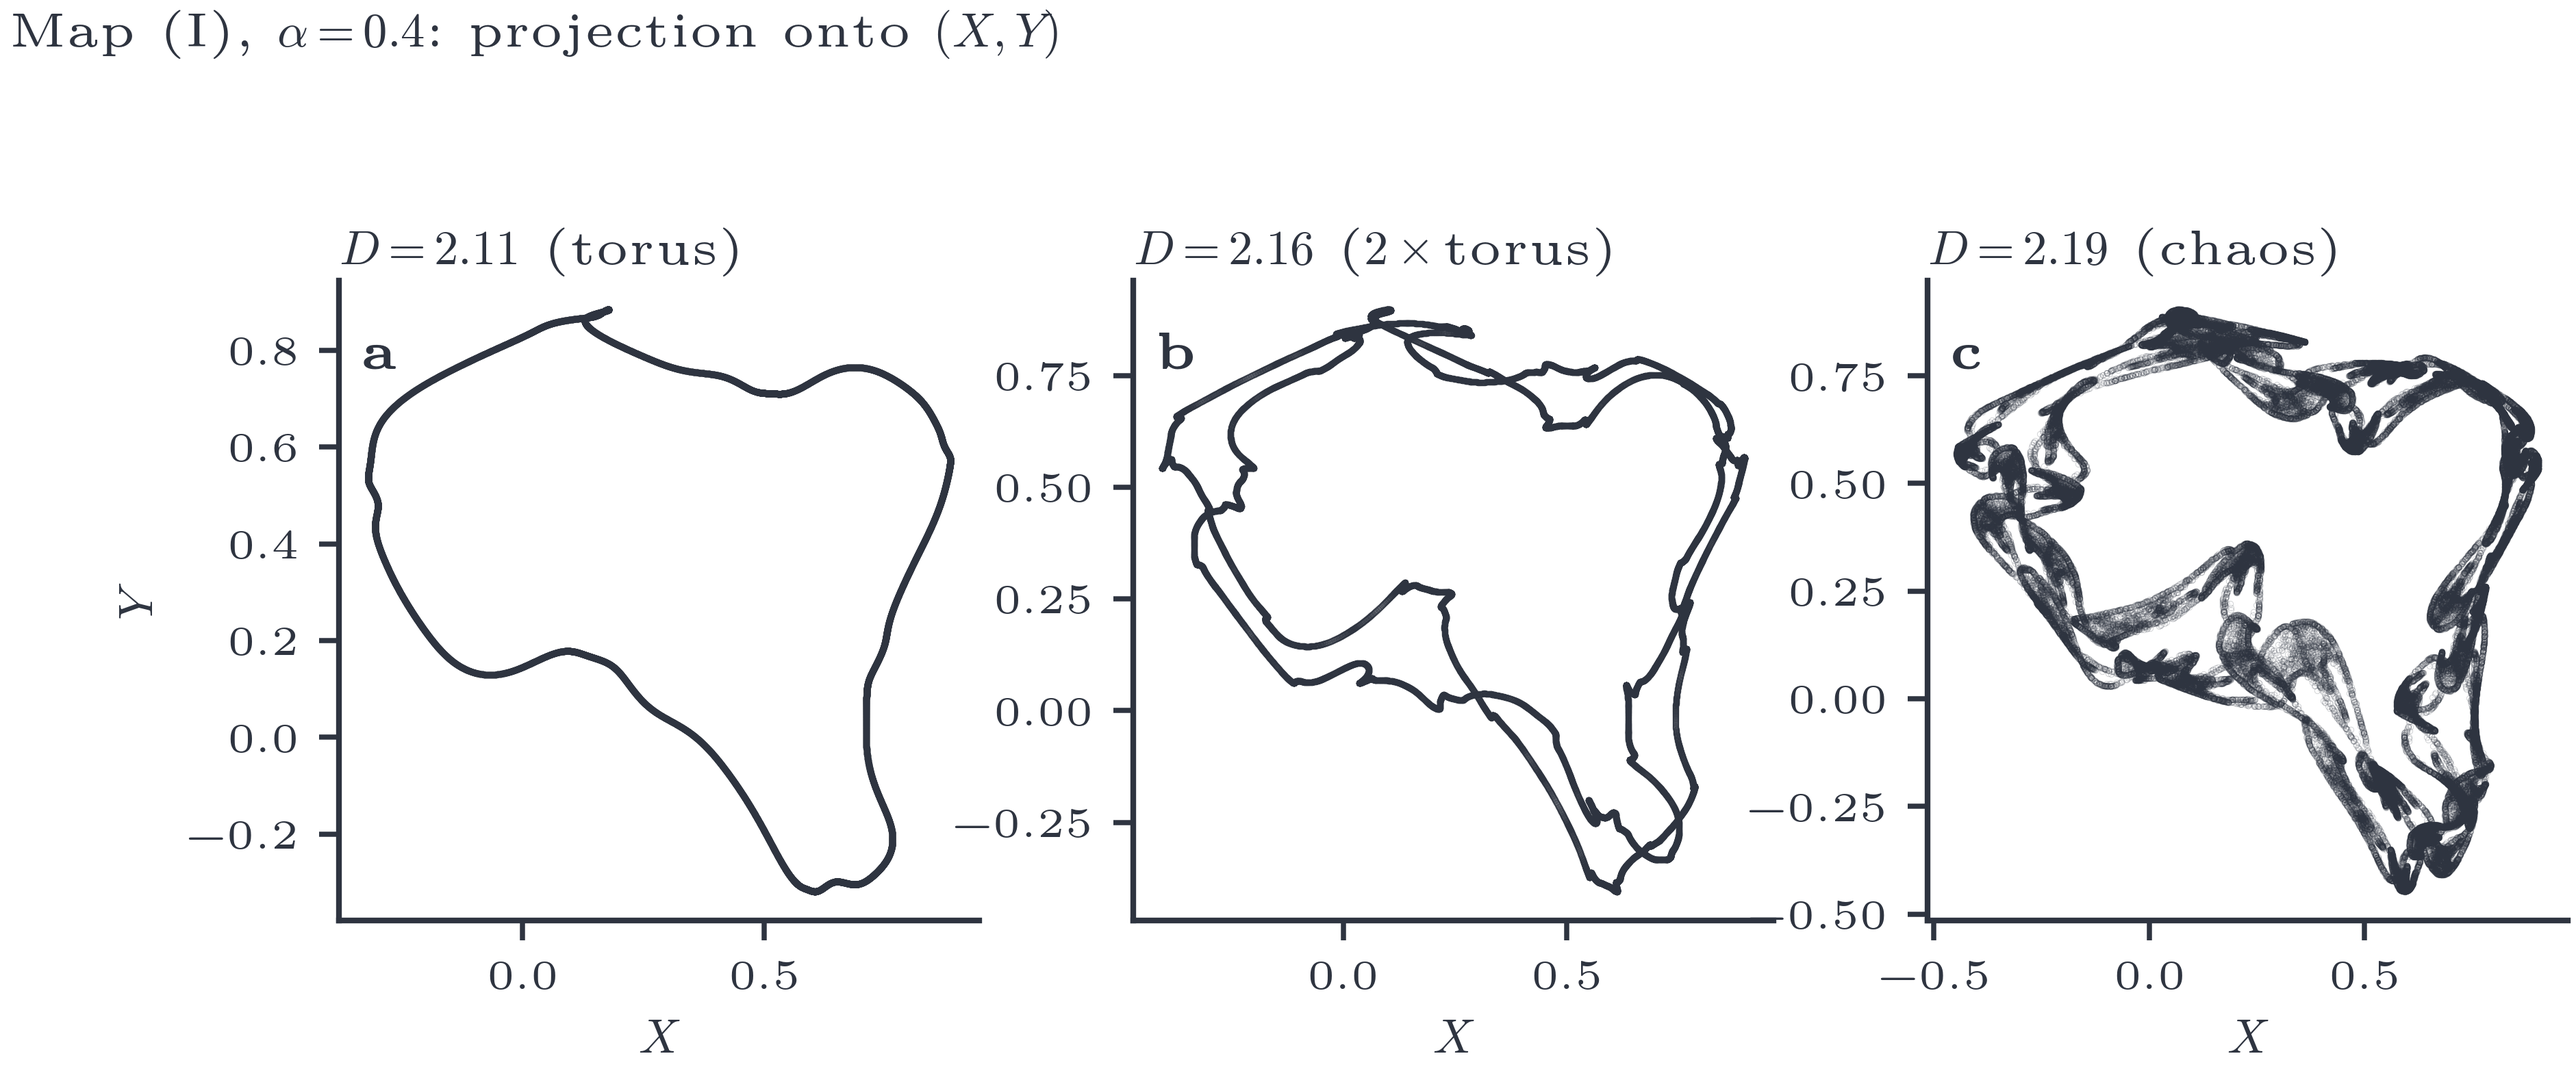
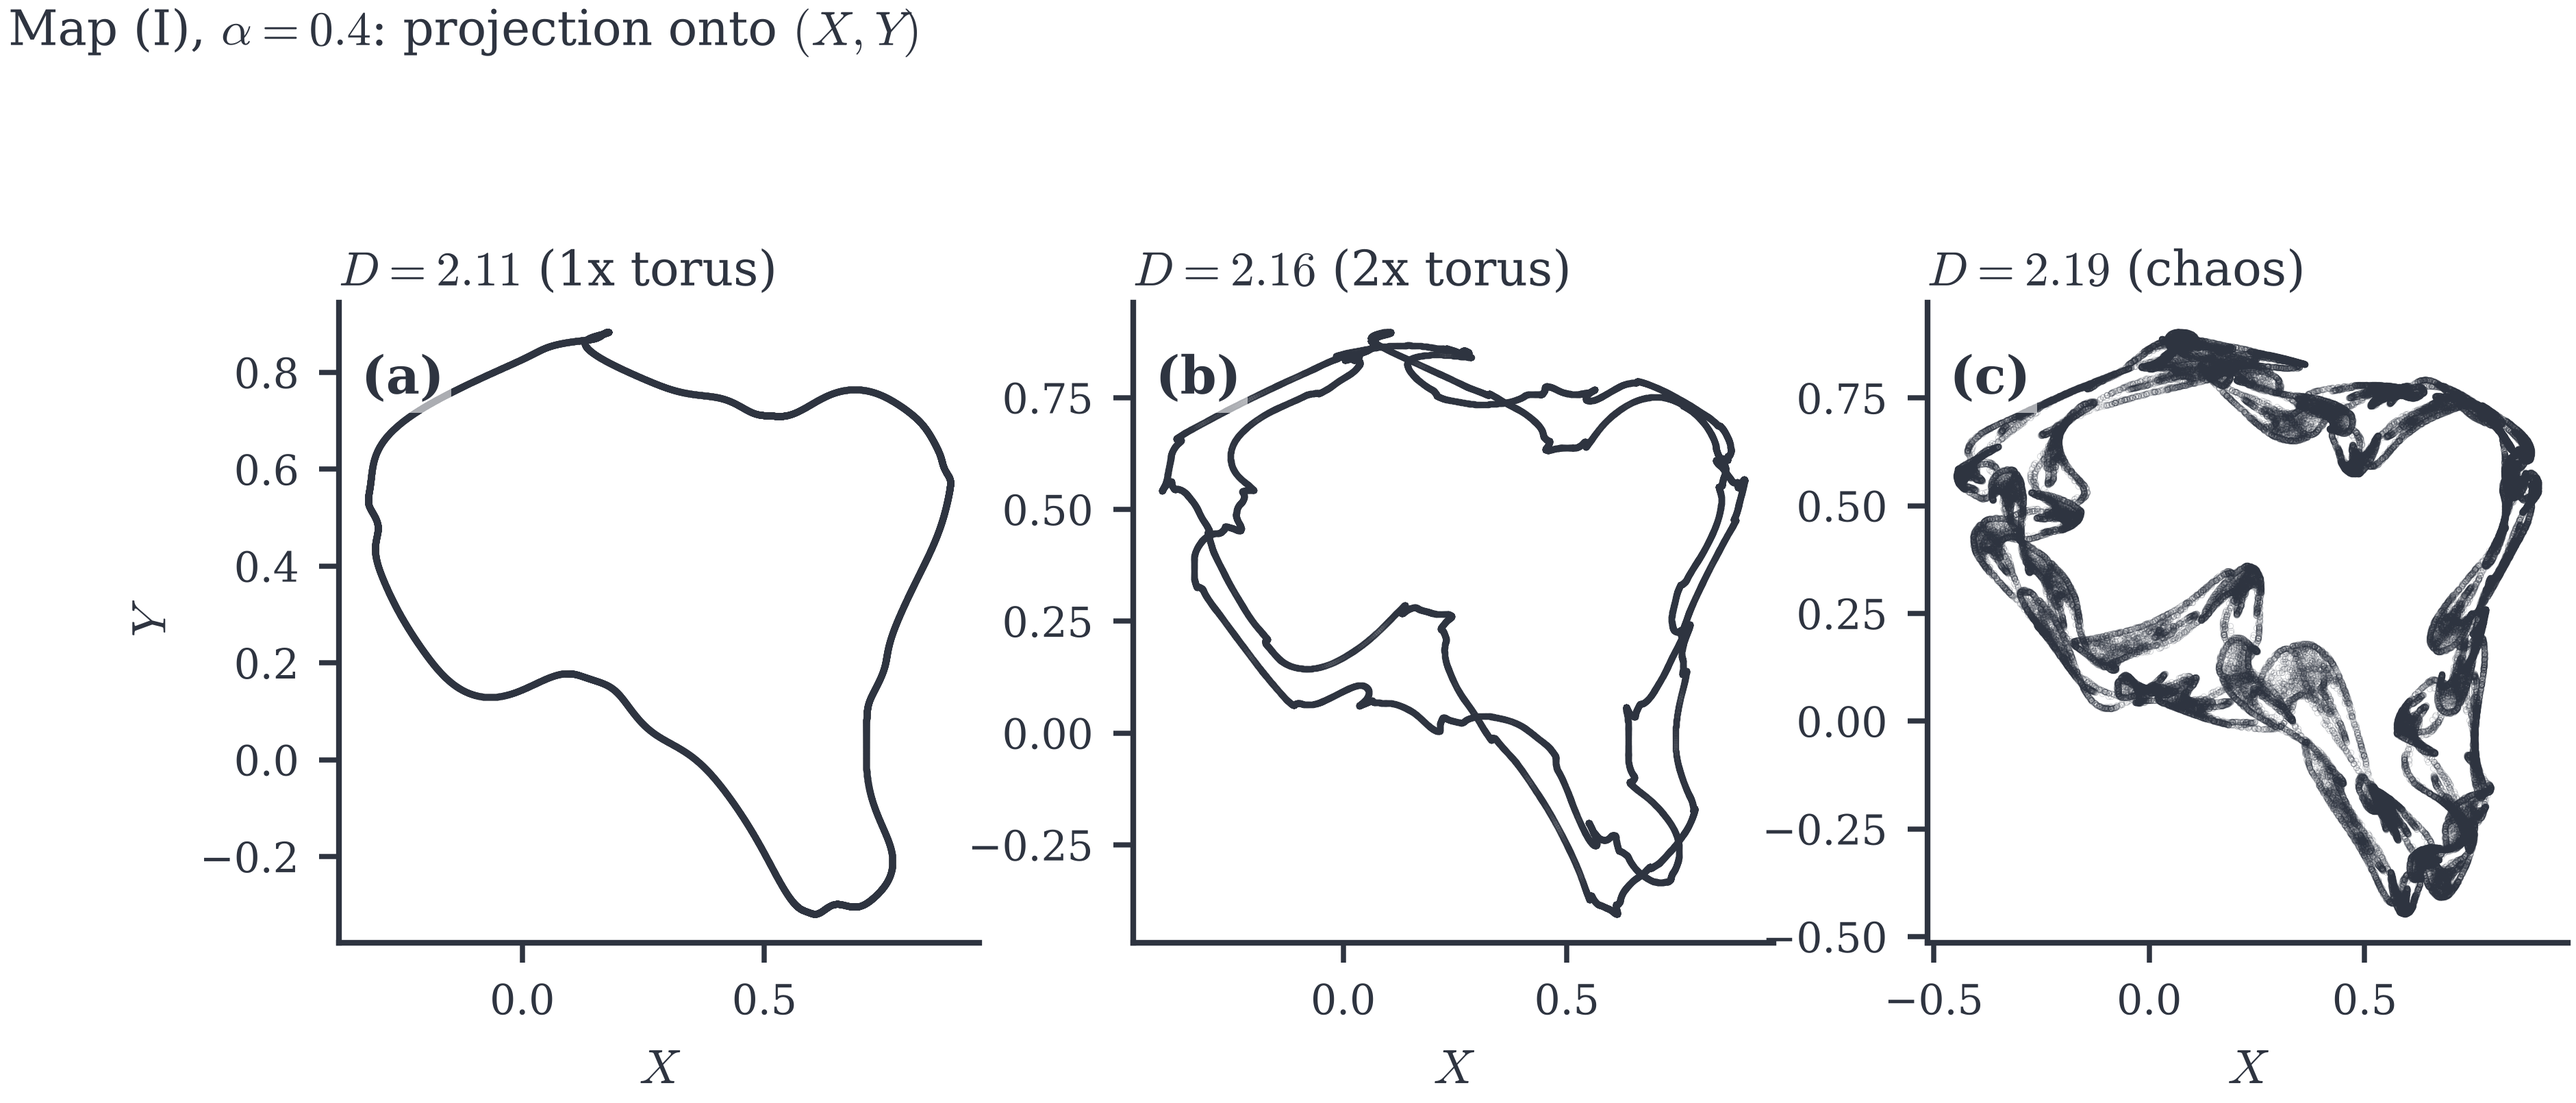
sec04: port the Map (I) doubling figure and its Lyapunov scan into the package
compute_map_I now stores A and, when given scan_D, the Lyapunov spectrum over the
doubling window D in [2.150, 2.175] (26 values, 20,000 iterates each) that the
review quotes. plot_map_I labels the panels '1x torus', '2x torus', 'chaos' and
tags them (a)-(c). map_I_attractors.npz reproduces the earlier private result
exactly. New tests check the cached trajectories, the scan grid, lambda_1 < 0.002
over the scan, and an independent lambda_1 at D = 2.11 (zero) and D = 2.19
(positive). The scan reaches lambda_1 = -0.0061 at one point, so the earlier
wording |lambda_1| < 0.002 is not what the data show; the docstring now says
lambda_1 < 0.002.

diff --git a/src/dynachaos/maps/torus_doubling.py b/src/dynachaos/maps/torus_doubling.py
@@ -10,7 +10,11 @@ Maps investigated:
        Z_{n+1} = AZ_n + (1-A)(1-DW_n^2), W_{n+1} = X_n;  A=0.3
 
 Figures:
-  - Projections onto (X,Y) plane for Map (I): D=2.11 (torus), 2.16 (2x torus), 2.19 (chaos)
+  - Projections onto (X,Y) plane for Map (I): D=2.11 (torus), 2.16 (2x torus), 2.19 (chaos).
+    Kaneko (1983, Table I) gives one doubling for Map (I) at A=0.4, D_1 = 2.151, and the
+    onset of chaos at D_c = 2.163.  The Lyapunov scan over D in [2.150, 2.175] stored with
+    the figure (20,000 iterates per point) keeps lambda_1 < 0.002 and does not resolve these
+    two values; they are Kaneko's.
   - Projections for Map (IV): D=1.515 (4x torus), 1.5206 (8x torus), 1.5212 (chaos)
   - Lyapunov exponents for Map (IV) vs D
 
@@ -36,6 +40,9 @@ MAP1_ANIM_NPZ = FIG_DIR / "map_I_animation.npz"
 MAP1_ANIM_GIF = FIG_DIR / "map_I_animation.gif"
 MAP4_ANIM_NPZ = FIG_DIR / "map_IV_animation.npz"
 MAP4_ANIM_GIF = FIG_DIR / "map_IV_animation.gif"
+
+# Lyapunov scan of Map (I) across the doubling window at A = 0.4.
+MAP1_SCAN_D = np.linspace(2.150, 2.175, 26)
 
 
 # ---------------------------------------------------------------------------
@@ -100,15 +107,39 @@ def iterate_map(f, x0, A, D, n_transient=20_000, n_plot=100_000):
     )
 
 
+def map_I_lyapunov_scan(A, scan_D, n_transient=10_000, n_iter=20_000):
+    """Lyapunov spectrum of Map (I) at each D in ``scan_D``, shape ``(len(scan_D), 3)``."""
+    from dynachaos.diagnostics.lyapunov import lyapunov_spectrum
+
+    x0 = np.array([0.5, 0.5, 0.5])
+    spectra = np.empty((len(scan_D), 3), dtype=np.float64)
+    for idx, D in enumerate(scan_D):
+        spectra[idx] = lyapunov_spectrum(
+            lambda state, _D=D: map_I(state, A, _D),
+            lambda state, _D=D: map_I_jac(state, A, _D),
+            x0,
+            n_iter=n_iter,
+            n_transient=n_transient,
+        )
+    return spectra
+
+
 def compute_map_I(
     *,
     A=0.4,
     D_values=None,
     n_transient=20_000,
     n_plot=100_000,
+    scan_D=None,
+    scan_n_transient=10_000,
+    scan_n_iter=20_000,
     output_path=MAP1_NPZ,
 ):
-    """Compute Map (I) attractors at A=0.4."""
+    """Compute Map (I) attractors at A=0.4.
+
+    When ``scan_D`` is given, the Lyapunov spectrum is also computed on that
+    grid and stored as ``scan_D`` and ``scan_lyap`` (shape ``(len(scan_D), 3)``).
+    """
     if D_values is None:
         D_values = [2.11, 2.16, 2.19]
     else:
@@ -124,7 +155,20 @@ def compute_map_I(
         if traj is not None:
             results[f"D_{D}_traj"] = traj
     results["D_values"] = np.array(D_values)
+    results["A"] = np.array([A], dtype=np.float64)
+    if scan_D is not None:
+        scan_D = np.asarray(scan_D, dtype=np.float64)
+        print(f"  Map (I): Lyapunov scan over {len(scan_D)} values of D")
+        results["scan_D"] = scan_D
+        results["scan_lyap"] = map_I_lyapunov_scan(
+            A, scan_D, n_transient=scan_n_transient, n_iter=scan_n_iter
+        )
     return _io_write_payload(output_path, results, base_dir=FIG_DIR)
+
+
+def compute_map_I_figure_data():
+    """Compute the data of the Map (I) figure: three attractors and the doubling-window scan."""
+    return compute_map_I(scan_D=MAP1_SCAN_D)
 
 
 def compute_map_IV(
@@ -207,10 +251,10 @@ def plot_map_I(data):
     setup()
 
     D_values = data["D_values"]
-    labels = ["torus", r"$2\times$torus", "chaos"]
+    labels = ["1x torus", r"2x torus", "chaos"]
 
     spec = figure_spec("grid")
-    fig, axes = plt.subplots(1, 3, figsize=(spec.figsize[0], 2.75))
+    fig, axes = plt.subplots(1, 3, figsize=(spec.figsize[0], 2.85))
     fig.subplots_adjust(wspace=0.24)
     for idx, D in enumerate(D_values):
         ax = axes[idx]
@@ -220,15 +264,17 @@ def plot_map_I(data):
             ax.scatter(
                 traj[:, 0], traj[:, 1], s=0.012, c=COLORS["black"], alpha=0.22, rasterized=True
             )
-        ax.set_title(f"$D={D}$ ({labels[idx]})", loc="left")
+        ax.set_title(rf"$D={D}$ ({labels[idx]})", loc="left")
         ax.set_xlabel("$X$")
         if idx == 0:
             ax.set_ylabel("$Y$")
+        else:
+            ax.set_ylabel("")
         apply_axes_polish(ax, kind="grid", title_loc="left", grid=False, equal=True)
-        panel_label(ax, chr(ord("a") + idx))
+        panel_label(ax, f"({chr(ord('a') + idx)})")
 
     fig.suptitle(
-        "Map (I), $\\alpha = 0.4$: projection onto $(X, Y)$",
+        r"Map (I), $\alpha = 0.4$: projection onto $(X, Y)$",
         x=0.01,
         ha="left",
         y=1.02,
@@ -457,8 +503,8 @@ def main():
     m1_data = load_or_compute_payload(
         MAP1_NPZ,
         "Map (I) attractors",
-        compute_map_I,
-        required_keys=("D_values",),
+        compute_map_I_figure_data,
+        required_keys=("D_values", "A", "scan_D", "scan_lyap"),
     )
     plot_map_I(m1_data)
 

diff --git a/tests/test_maps.py b/tests/test_maps.py
@@ -215,6 +215,67 @@ def test_sec03_basin_cache_is_mirror_symmetric_with_nested_stripes():
         assert changes >= minimum_changes
 
 
+def test_compute_map_I_scan_matches_direct_lyapunov_spectrum(tmp_path):
+    scan_D = np.array([2.15, 2.17])
+    payload = compute_map_I(
+        D_values=np.array([2.11]),
+        n_transient=2,
+        n_plot=4,
+        scan_D=scan_D,
+        scan_n_transient=50,
+        scan_n_iter=200,
+        output_path=tmp_path / "map_I_scan.npz",
+    )
+
+    assert payload["A"].tolist() == [0.4]
+    np.testing.assert_array_equal(payload["scan_D"], scan_D)
+    assert payload["scan_lyap"].shape == (2, 3)
+    from dynachaos.diagnostics.lyapunov import lyapunov_spectrum
+
+    for D, row in zip(scan_D, payload["scan_lyap"], strict=True):
+        expected = lyapunov_spectrum(
+            lambda s, _D=D: map_I(s, 0.4, _D),
+            lambda s, _D=D: map_I_jac(s, 0.4, _D),
+            np.array([0.5, 0.5, 0.5]),
+            n_iter=200,
+            n_transient=50,
+        )
+        np.testing.assert_allclose(row, expected, rtol=1e-12)
+
+
+def test_sec04_map_I_cache_holds_three_attractors_and_the_doubling_window_scan():
+    from dynachaos.maps.torus_doubling import map_I_lyapunov_scan
+
+    figure_dir = Path(__file__).resolve().parents[1] / "figures" / "sec04_doubling"
+    with np.load(figure_dir / "map_I_attractors.npz", allow_pickle=False) as data:
+        D_values = data["D_values"]
+        A = float(data["A"][0])
+        scan_D = data["scan_D"]
+        scan_lyap = data["scan_lyap"]
+        trajectories = [data[f"D_{D}_traj"] for D in D_values]
+
+    assert A == pytest.approx(0.4)
+    np.testing.assert_allclose(D_values, [2.11, 2.16, 2.19])
+    for traj in trajectories:
+        assert traj.shape == (100_000, 3)
+        assert np.all(np.isfinite(traj))
+        assert np.all(np.abs(traj) < 2.0)
+
+    # Scan over the doubling window D in [2.150, 2.175], 26 values, three exponents each.
+    np.testing.assert_allclose(scan_D, np.linspace(2.150, 2.175, 26))
+    assert scan_lyap.shape == (26, 3)
+    assert np.all(np.isfinite(scan_lyap))
+    # The scan shows no resolved chaos (lambda_1 < 0.002) and a contracting third direction.
+    assert np.max(scan_lyap[:, 0]) < 0.002
+    assert np.all(scan_lyap[:, 2] < -0.05)
+
+    # Independent recomputation at the three displayed D: the 1x torus has lambda_1 = 0
+    # and chaos beyond D_c = 2.163 has lambda_1 > 0.
+    spectra = map_I_lyapunov_scan(A, np.array([2.11, 2.19]), n_transient=20_000, n_iter=100_000)
+    assert abs(spectra[0, 0]) < 5e-4
+    assert spectra[1, 0] > 2e-3
+
+
 def test_coupled_logistic_shapes():
     state = np.array([0.2, -0.1], dtype=np.float64)
     out = coupled_logistic(state, A=1.2, D=0.08)

diff --git a/examples/snippets/sec04_doubling/map_I_attractors.py b/examples/snippets/sec04_doubling/map_I_attractors.py
@@ -1,5 +1,6 @@
-# Figure: representative (X, Y) projections of Map (I) across torus doubling (alpha=0.4).
-# Full figure: dynachaos run sec04_doubling
+# Reduced preview (3 D values, 2000 points). Full figure: dynachaos run sec04_doubling
+# Torus doubling in Map (I), Eq. (8), at alpha = 0.4: 1x torus, 2x torus, and chaos (Dc = 2.163).
+# The static figure uses 10^5 iterates after a 20,000-step transient.
 import numpy as np
 
 from dynachaos.maps.torus_doubling import iterate_map, map_I

diff --git a/src/dynachaos/pipelines/registry.py b/src/dynachaos/pipelines/registry.py
@@ -197,7 +197,7 @@ SECTION_SPECS = {
             "map_IV_lyapunov.png",
         ),
         npz_contracts=(
-            NpzContract("map_I_attractors.npz", ("D_values",)),
+            NpzContract("map_I_attractors.npz", ("D_values", "A", "scan_D", "scan_lyap")),
             NpzContract("map_IV_attractors.npz", ("D_values",)),
             NpzContract("map_IV_lyapunov.npz", ("D", "spectra")),
         ),

diff --git a/tests/test_maps_figures.py b/tests/test_maps_figures.py
@@ -90,6 +90,7 @@ def test_torus_doubling_plot_map_I_writes_png(monkeypatch, tmp_path):
     monkeypatch.setattr(torus_doubling, "MAP1_PNG", png_path)
 
     payload = torus_doubling.compute_map_I(n_transient=2, n_plot=5, output_path=None)
+    assert "scan_D" not in payload
 
     torus_doubling.plot_map_I(payload)
 
